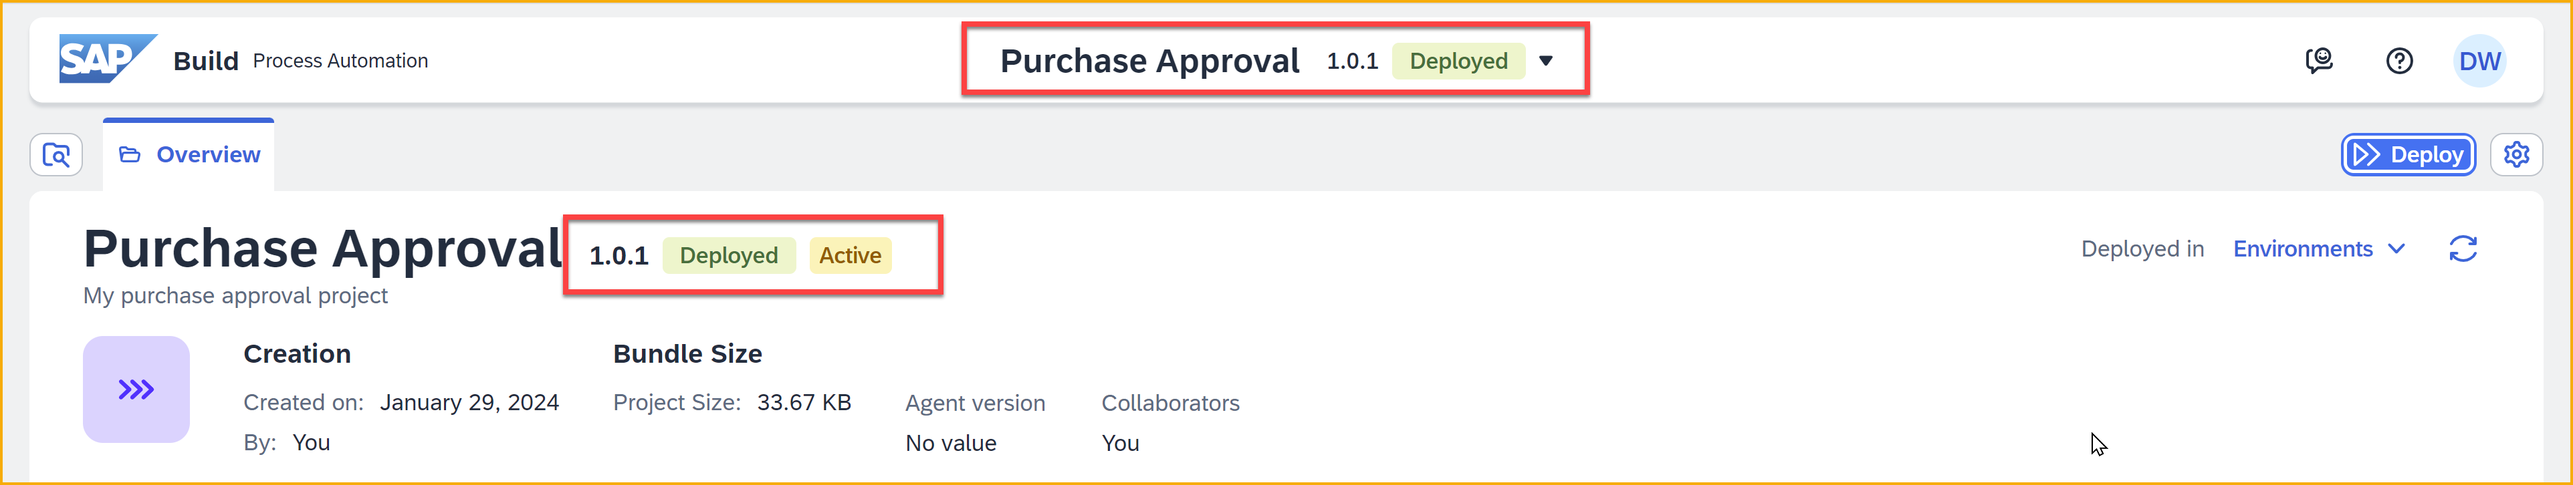
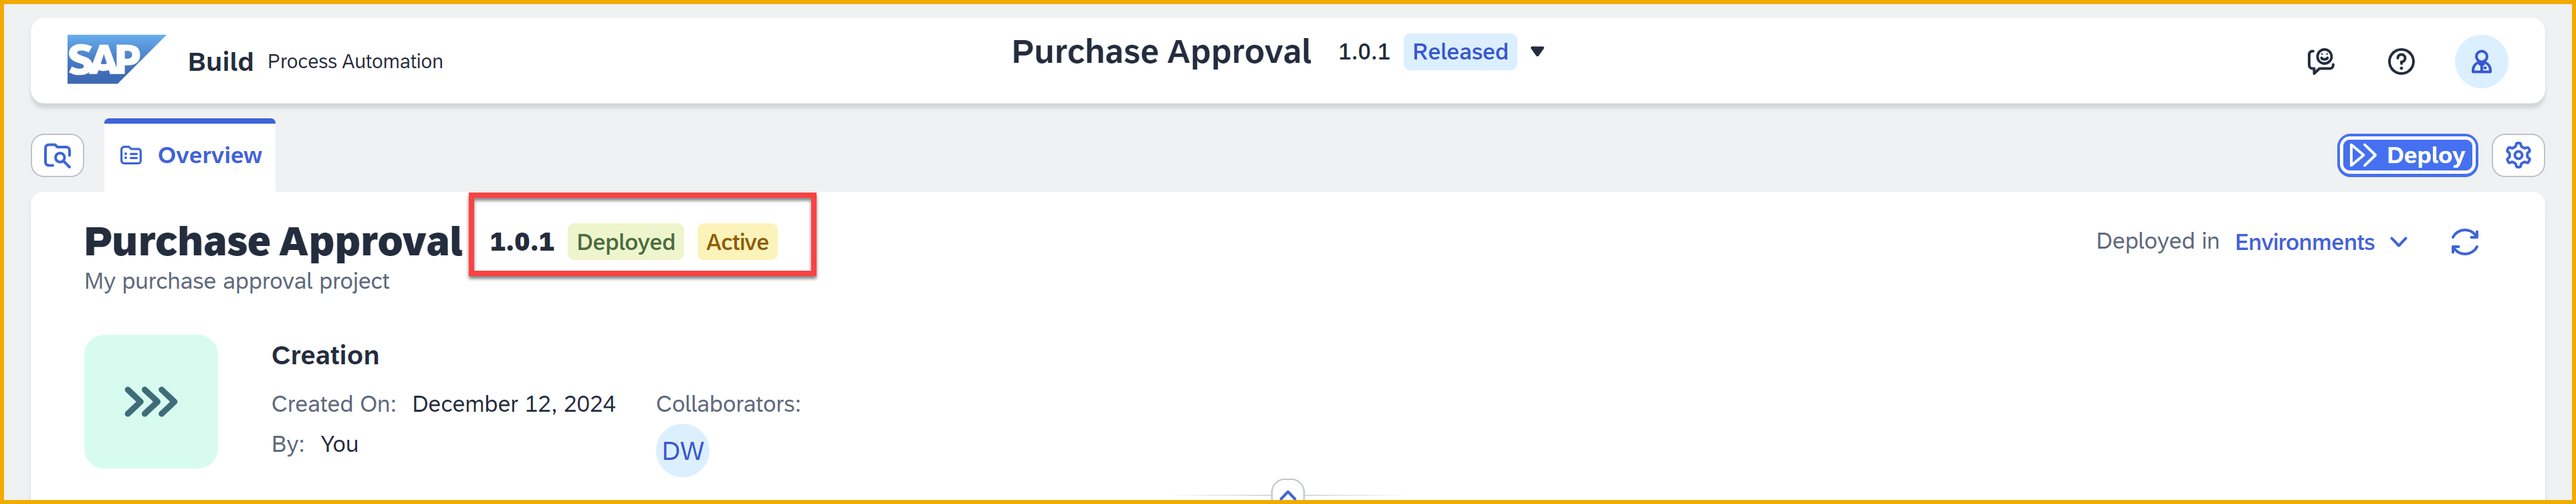
Fixes, prerequisites for codejam

diff --git a/tutorials/codejam-04-spa-empty-process/codejam-04-spa-empty-process.md b/tutorials/codejam-04-spa-empty-process/codejam-04-spa-empty-process.md
@@ -15,7 +15,7 @@ primary_tag: software-product>sap-build
 
  
 ## Prerequisites
-- You have completed the previous tutorial for the SAP Build CodeJam, [Write Logic to Maintain the Cart](codejam-04-add-to-cart).
+- You have completed the previous tutorial for the SAP Build CodeJam, [Write Logic to Maintain the Cart](codejam-03-cart-page).
   
 
 ## You will learn
@@ -210,13 +210,17 @@ Releasing a project creates a version or snapshot of the changes, and deploying 
 
     ![Confirm Release Project](13b_Confirm_Release_Project.png)
 
-3. At the top you have a dropdown that shows all the released and deployed version, plus the current editable version.
+3. At the top you have a dropdown that shows all the released and deployed versions, plus the current editable version.
 
     Select the version you just released (1.0.0). 
 
     >You could also click **Show project version**, which is displayed after releasing a version.
 
     ![Examine Release Status Overview](13c_Check_Release_Status.png)
+
+    This displays the released version.
+
+    >![Released version](released-version.png)
 
 >Whenever you need to make changes to your process project, make sure you have the **Editable** version.
 
@@ -250,11 +254,11 @@ Releasing a project creates a version or snapshot of the changes, and deploying 
 
     >Deploying will take a couple of seconds/minutes depending upon how big your project is and how many artifacts it has. Any errors during deployment are displayed in the **Deployment Console** at the bottom of the screen.
 
-    Once the deployment is successful, the status will change at the top of the page to **Deployed**. 
+    Once the deployment is successful, you will see that this release has been deployed, and that it is the active version (since you can have deployed many releases).
     
     ![Deployment Status](14d_Deployment_Status.png)
 
-4. OPen your browser tab with he SAP Build lobby.
+4. Go back to the SAP Build lobby, which should be open in one of your browser tabs.
 
     >Alternatively, you can return to the lobby from your project by clicking the SAP logo in the top-left corner.
 
@@ -353,10 +357,10 @@ Once triggered, you can monitor the process instance from the **Monitor** sectio
 
     To see your instance, in the filters, click the dropdown for the **Status** filter, and select **Completed**.
 
+    ![Process instance](16a2_Monitor_Process.png)
+
     Now you should see your process instance.
 
-    ![Process instance](16a2_Monitor_Process.png)
-    
 4. Click on your process instance.
 
     In the details section at the top, you can see:

diff --git a/tutorials/codejam-05-spa-approval-flow/codejam-05-spa-approval-flow.md b/tutorials/codejam-05-spa-approval-flow/codejam-05-spa-approval-flow.md
@@ -15,7 +15,7 @@ primary_tag: software-product>sap-build
 
 
 ## Prerequisites
-- You have completed the previous tutorial for the SAP Build CodeJam, [Create a Business Process Project](codejam-05-spa-empty-process).
+- You have completed the previous tutorial for the SAP Build CodeJam, [Create a Business Process Project](codejam-04-spa-empty-process).
   
  
 
@@ -256,7 +256,7 @@ To do this, you will use the Script Task, which lets you write JavaScript snippe
 
     The result should show you that it added all the item quantities, and set the custom variable to 12.
 
-    ![Run test](script8.png)
+    ![Run test](script9.png)
 
     This value can now be used elsewhere in the process.
 
@@ -318,10 +318,12 @@ If the purchase request meets the conditions for needing approval (total greater
     | Text | `BP Grouping` | Read Only | 
     | Text | `Order ID` | Read Only | 
     | Table | `Order Items` | Read Only | 
-    | Text | `Total Items` | Read Only | 
+    | Number | `Total Items` | Read Only | 
     | Text Area | `Additional Information` |  | 
     
     ![Approval form fields](approvalform3.png)
+
+    >Make sure all but the last field are read-only.
 
 6. Select the **Order Items** table and click the **+** icon.
 
@@ -401,7 +403,7 @@ For example, for an approval form, you need to specify who will be the approver 
     | **General** | **Recipients > Users** | Click in the box and select **Process Metadata > Process Started By**. 
     | **Inputs** | **Order ID** | Click in the box and select **Process Inputs > Order ID**. 
     | **Inputs** | **Order Items** | Click in the box and select **Process Inputs > Order Items**. 
-    | **Inputs** | **Total Items** | Click in the box and select **Custom Variables > Sume of All Items**. 
+    | **Inputs** | **Total Items** | Click in the box and select **Custom Variables > Sum of All Items**. 
 
     Expand **Order Items**, and you will see that the system automatically mapped the correct input fields to each of the table fields in form. 
     
@@ -556,7 +558,7 @@ Once triggered, you can monitor the process instance from the **Monitor** sectio
 
     ![Show instances](showinstances.png)
 
-    Since this process instance added notifications and approval step, it won't automatically be completed and you will see it with the default filter.
+    Since this process instance added notifications and an approval step, it won't automatically be completed and you will see it with the default filter.
 
     ![Running process](images/test-2.png)
 

diff --git a/tutorials/codejam-06-connect-app-process/codejam-06-connect-app-process.md b/tutorials/codejam-06-connect-app-process/codejam-06-connect-app-process.md
@@ -3,7 +3,7 @@ parser: v2
 author_name: Daniel Wroblewski
 author_profile: https://github.com/thecodester
 auto_validation: true
-time: 15
+time: 20
 tags: [ tutorial>beginner, software-product>sap-build, software-product>sap-build-apps, software-product>sap-build-process-automation]
 primary_tag: software-product>sap-build
 ---
@@ -15,7 +15,7 @@ primary_tag: software-product>sap-build
 
 
 ## Prerequisites
-- You have completed the previous tutorial for the SAP Build CodeJam, [Add Approval Flow to Process](codejam-06-spa-approval).
+- You have completed the previous tutorial for the SAP Build CodeJam, [Add Approval Flow to Process](codejam-05-spa-approval-flow).
 
 
 
@@ -75,7 +75,7 @@ To connect Build Apps to Process Automation a destination needs to be created fo
 
 4. Download the destination definition.
 
-    Click this [`sap_process_automation_service_user_access`](https://github.com/sap-tutorials/sap-build-apps/blob/main/tutorials/codejam-07-connect-app-process/sap_process_automation_service_user_access) link to the GitHub download page for the destination, and then click the download button in the GitHub menu.
+    Click [sap_process_automation_service_user_access](https://github.com/sap-tutorials/sap-build-apps/blob/main/tutorials/codejam-07-connect-app-process/sap_process_automation_service_user_access) to go to the GitHub download page for the destination template, and then click the download button in the GitHub menu.
 
     ![Download](Download.png)
 
@@ -163,7 +163,7 @@ The process is published, but we need to reference it in our SAP Build Apps proj
 
     ![Library](images/enable-add-integration-library.png)
 
-    You should now see your process you published.
+    You should now see the process you published.
 
     ![Browse process](images/enable-browse-library.png)
 

diff --git a/tutorials/codejam-09-action-get/codejam-09-action-get.md b/tutorials/codejam-09-action-get/codejam-09-action-get.md
@@ -3,7 +3,7 @@ parser: v2
 author_name: Rekha DR
 author_profile: https://github.com/Rekha-DR
 auto_validation: true
-time: 40
+time: 30
 tags: [ tutorial>beginner, software-product>sap-build, software-product>sap-build-apps, software-product>sap-build-process-automation]
 primary_tag: software-product>sap-build
 ---
@@ -15,7 +15,7 @@ primary_tag: software-product>sap-build
 
 
 ## Prerequisites
-- You have completed the previous tutorial for the SAP Build CodeJam, [Trigger Process from Your App](codejam-07-connect-app-process).
+- You have completed the previous tutorial for the SAP Build CodeJam, [Trigger Process from Your App](codejam-08-work-zone-app).
 
 
 
@@ -24,11 +24,8 @@ primary_tag: software-product>sap-build
 
 ## You will learn
 - How to create destination to SAP S/4HANA Cloud demo APIs on SAP Business Accelerator Hub
-- How to create action project
-- How to set action's inputs and outputs
-- How to test the action
-- How to release and publish action
-- How to consume action from project
+- How to create and publish an action project
+- How to consume an action from a process
 
 
 ## Intro
@@ -66,7 +63,7 @@ In order to access the demo SAP S/4HANA Cloud business partner API on the **SAP 
 
 2. Download the destination definition.
    
-    Click [`S4HANA-Hub-Public`](https://github.com/sap-tutorials/sap-build-apps/blob/main/tutorials/codejam-08-action-get/S4HANA-Hub-Public), and then click the download button.
+    Click [S4HANA-Hub-Public](https://github.com/sap-tutorials/sap-build-apps/blob/main/tutorials/codejam-08-action-get/S4HANA-Hub-Public), and then click the download button.
 
     ![Download](Download.png)
 

diff --git a/tutorials/codejam-03-cart-page/codejam-03-cart-page.md b/tutorials/codejam-03-cart-page/codejam-03-cart-page.md
@@ -177,9 +177,9 @@ You can create a button or other UI component, and then in the logic for the but
 
 But users might want to navigate to the **Cart** page at any time. So you can create a static menu that is available all the time. Every new app comes with a menu and a single item to return to the home page. In this step, you will create a new menu item for the **Cart** page. 
 
-1. Click **Settings > Navigation**.
+1. Click **App Settings > Navigation**.
 
-    You will see the **Home page** menu item.
+    You will see the **Home page** menu item already created for you.
 
     ![Navigation](images/nav-1.png)
 
@@ -235,7 +235,7 @@ Currently, you are viewing a dummy cart. Now let's create your own cart.
 
     You should see the default logic.
 
-4. Switch the logic by first disconnecting the connection between **Page focused** and **Set app variable**.
+4. Switch the logic by first disconnecting the connection between **Page focused** and **Set app variable** -- to disconnect, click the connection and press the **Delete** key.
 
     Then connect **Page focused** to **Delay**.
 
@@ -390,7 +390,7 @@ Go to the **Cart** page. You should now see the product you selected in your car
 
 You can also test deleting items from the cart ... it takes a few seconds for the UI to update after deleting an item.
 
-ANd behind the scenes, you are reading and updating a CAP service.
+And behind the scenes, you are reading and updating a CAP service.
 
 😃
 

diff --git a/tutorials/codejam-08-work-zone-app/codejam-08-work-zone-app.md b/tutorials/codejam-08-work-zone-app/codejam-08-work-zone-app.md
@@ -3,7 +3,7 @@ parser: v2
 author_name: Daniel Wroblewski
 author_profile: https://github.com/thecodester
 auto_validation: true
-time: 30
+time: 20
 tags: [ tutorial>beginner, software-product>sap-build, software-product>sap-build-apps, software-product>sap-build-process-automation]
 primary_tag: software-product>sap-build
 ---
@@ -15,7 +15,7 @@ primary_tag: software-product>sap-build
 
 
 ## Prerequisites
-- You have completed the previous tutorial for the SAP Build CodeJam, [Add Approval Flow to Process](codejam-06-spa-approval).
+- You have completed the previous tutorial for the SAP Build CodeJam, [Add Approval Flow to Process](codejam-07-build-deploy-app).
 
 
 
@@ -203,7 +203,7 @@ You get a preview of the page.
 
     Double-click **Everyone** to open it.
 
-    ![Open Everyone](images/wz-role1.png)e
+    ![Open Everyone](images/wz-role1.png)
 
 2. Click **Edit**.
 

diff --git a/tutorials/codejam-10-action-post/codejam-10-action-post.md b/tutorials/codejam-10-action-post/codejam-10-action-post.md
@@ -7,7 +7,7 @@ time: 20
 tags: [ tutorial>beginner, software-product>sap-build, software-product>sap-build-apps, software-product>sap-build-process-automation]
 primary_tag: software-product>sap-build
 ---
-  
+   
 
 # 10 - Create Action Project to Post Data to CAP Service
 <!-- description --> Create an action project to update our CAP service and call the action from your process when the order is approved, as part of the SAP Build CodeJam.
@@ -15,7 +15,7 @@ primary_tag: software-product>sap-build
 
 
 ## Prerequisites
-- You have completed the previous tutorial for the SAP Build CodeJam, [Create Action to Get Data from SAP S/4HANA Cloud](codejam-08-action-get).
+- You have completed the previous tutorial for the SAP Build CodeJam, [Create Action to Get Data from SAP S/4HANA Cloud](codejam-09-action-get).
 
 
 

diff --git a/tutorials/codejam-07-build-deploy-app/codejam-07-build-deploy-app.md b/tutorials/codejam-07-build-deploy-app/codejam-07-build-deploy-app.md
@@ -3,7 +3,7 @@ parser: v2
 author_name: Daniel Wroblewski
 author_profile: https://github.com/thecodester
 auto_validation: true
-time: 20
+time: 15
 tags: [ tutorial>beginner, software-product>sap-build, software-product>sap-build-apps, software-product>sap-build-process-automation]
 primary_tag: software-product>sap-build
 ---
@@ -15,7 +15,7 @@ primary_tag: software-product>sap-build
 
 
 ## Prerequisites
-- You have completed the previous tutorial for the SAP Build CodeJam, [Add Approval Flow to Process](codejam-06-spa-approval).
+- You have completed the previous tutorial for the SAP Build CodeJam, [Add Approval Flow to Process](codejam-06-connect-app-process).
 
 
 
